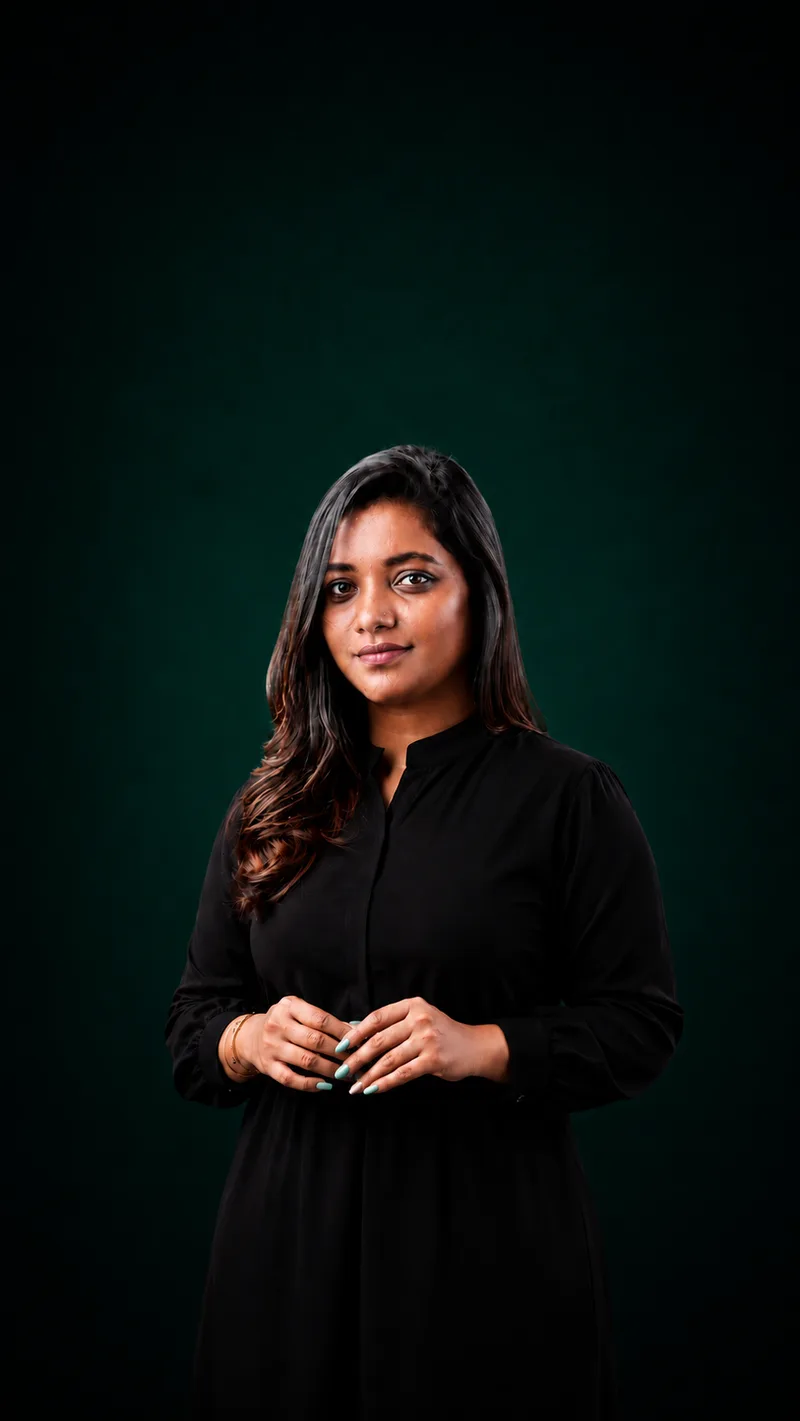
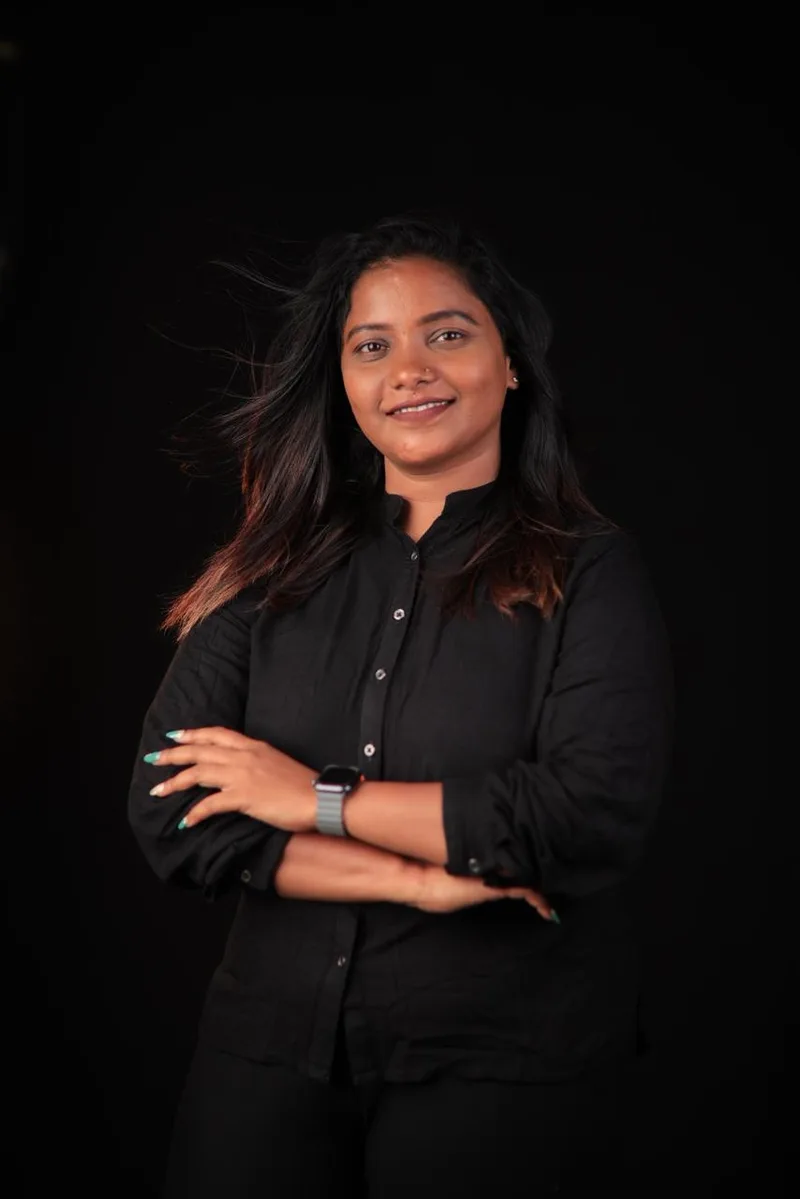
Switch all images to WebP for 40x faster loading

Changed region(s): [[0.1562, 0.1852, 0.8125, 0.8332], [0.25, 0.8023, 0.2812, 0.8332]]

diff --git a/src/components/GalleryPage.jsx b/src/components/GalleryPage.jsx
@@ -4,21 +4,21 @@ import { Camera, X } from "lucide-react";
 
 const allPhotos = [
   { id: 3, img: "/insta3.webp", alt: "Bridal hairstyle and makeup", tag: "Famous Playback Singer Mangli" },
-  { id: 6, img: "/ananyanagalla.jpeg", alt: "Actress Ananya Nagalla", tag: "Actress Ananya Nagalla" },
+  { id: 6, img: "/ananyanagalla.webp", alt: "Actress Ananya Nagalla", tag: "Actress Ananya Nagalla" },
   { id: 1, img: "/insta1.webp", alt: "Bridal makeup transformation" },
   { id: 2, img: "/insta2.webp", alt: "Wedding bridal look" },
   { id: 4, img: "/insta4.webp", alt: "Luxury bridal makeup package" },
-  { id: 7, img: "/insta6.jpeg", alt: "Bridal look" },
-  { id: 8, img: "/hd1.jpeg", alt: "HD Bridal makeup look 1" },
-  { id: 9, img: "/hd2.jpeg", alt: "HD Bridal makeup look 2" },
-  { id: 10, img: "/hd3.jpeg", alt: "HD Bridal makeup look 3" },
-  { id: 11, img: "/hd4.jpeg", alt: "HD Bridal makeup look 4" },
-  { id: 12, img: "/hd5.jpeg", alt: "HD Bridal makeup look 5" },
-  { id: 13, img: "/airbrush1.jpeg", alt: "Airbrush makeup look 1" },
-  { id: 14, img: "/airbrush2.jpeg", alt: "Airbrush makeup look 2" },
-  { id: 15, img: "/airbrush3.jpeg", alt: "Airbrush makeup look 3" },
-  { id: 16, img: "/airbrush4.jpeg", alt: "Airbrush makeup look 4" },
-  { id: 17, img: "/airbrush5.jpeg", alt: "Airbrush makeup look 5" },
+  { id: 7, img: "/insta6.webp", alt: "Bridal look" },
+  { id: 8, img: "/hd1.webp", alt: "HD Bridal makeup look 1" },
+  { id: 9, img: "/hd2.webp", alt: "HD Bridal makeup look 2" },
+  { id: 10, img: "/hd3.webp", alt: "HD Bridal makeup look 3" },
+  { id: 11, img: "/hd4.webp", alt: "HD Bridal makeup look 4" },
+  { id: 12, img: "/hd5.webp", alt: "HD Bridal makeup look 5" },
+  { id: 13, img: "/airbrush1.webp", alt: "Airbrush makeup look 1" },
+  { id: 14, img: "/airbrush2.webp", alt: "Airbrush makeup look 2" },
+  { id: 15, img: "/airbrush3.webp", alt: "Airbrush makeup look 3" },
+  { id: 16, img: "/airbrush4.webp", alt: "Airbrush makeup look 4" },
+  { id: 17, img: "/airbrush5.webp", alt: "Airbrush makeup look 5" },
   { id: 19, img: "/74560cc8-0160-411c-aa5e-0b18b9388df4.webp", alt: "Bridal makeup" },
 ];
 

diff --git a/src/components/BridalServices.jsx b/src/components/BridalServices.jsx
@@ -7,11 +7,11 @@ const bridalPackages = [
   { title: "Basic Bridal Makeup Nellore", 
     desc: "Classic bridal look with high-quality products. Perfect for intimate ceremonies and traditional functions at your wedding in Nellore.",
     features: ["Matte/Glossy Finish", "Long-Lasting Formula", "Bridal Trials Included", "Touch-up Kit"],
-    img: "/basica.jpeg" },
+    img: "/basica.webp" },
   { title: "HD Bridal Makeup Nellore",
     desc: "Flawless HD finish designed for high-definition photography. Airbrushed perfection for your big day. The best HD bridal makeup in Nellore.",
     features: ["HD Foundation & Setting", "Camera-Ready Finish", "Water-Resistant", "Complimentary Trial"],
-    img: "/hd6.jpeg" },
+    img: "/hd6.webp" },
   { title: "Airbrush Makeup Nellore",
     desc: "Ultra-lightweight airbrush application for a second-skin finish. Transfer-proof, sweat-proof, and weightless. Premium airbrush makeup artist in Nellore.",
     features: ["4K Resolution Finish", "Transfer-Proof Formula", "Buildable Coverage", "Lasts 16+ Hours"],

diff --git a/src/components/About.jsx b/src/components/About.jsx
@@ -47,7 +47,7 @@ export default function About() {
                   backgroundImage:`linear-gradient(45deg,rgba(255,255,255,0.022) 25%,transparent 25%),linear-gradient(-45deg,rgba(255,255,255,0.022) 25%,transparent 25%),linear-gradient(45deg,transparent 75%,rgba(255,255,255,0.022) 75%),linear-gradient(-45deg,transparent 75%,rgba(255,255,255,0.022) 75%)`,
                   backgroundSize:'5px 5px',backgroundPosition:'0 0,0 2.5px,2.5px -2.5px,-2.5px 0'
                 }}>
-                <img src="/hero.jpeg" alt="Deepa - Professional Bridal Makeup Artist at Deepa Bridal Studio in Nellore" className="absolute inset-0 w-full h-full object-cover z-10" loading="lazy" width="800" height="1067" />
+                <img src="/hero.webp" alt="Deepa - Professional Bridal Makeup Artist at Deepa Bridal Studio in Nellore" className="absolute inset-0 w-full h-full object-cover z-10" loading="lazy" width="800" height="1067" />
                 <div className="absolute inset-0 z-20" style={{background:'radial-gradient(ellipse 70% 65% at 50% 35%,rgba(26,79,52,0.15) 0%,rgba(3,10,6,0.55) 100%)'}} />
               </div>
             </div>

diff --git a/src/components/Gallery.jsx b/src/components/Gallery.jsx
@@ -6,7 +6,7 @@ import { Camera, ArrowRight } from "lucide-react";
 
 const previewPosts = [
   { id: 3, img: "/insta3.webp", alt: "Bridal hairstyle and makeup", tag: "Famous Playback Singer Mangli" },
-  { id: 6, img: "/ananyanagalla.jpeg", alt: "Actress Ananya Nagalla", tag: "Actress Ananya Nagalla" },
+  { id: 6, img: "/ananyanagalla.webp", alt: "Actress Ananya Nagalla", tag: "Actress Ananya Nagalla" },
   { id: 1, img: "/insta1.webp", alt: "Bridal makeup transformation" },
 ];
 